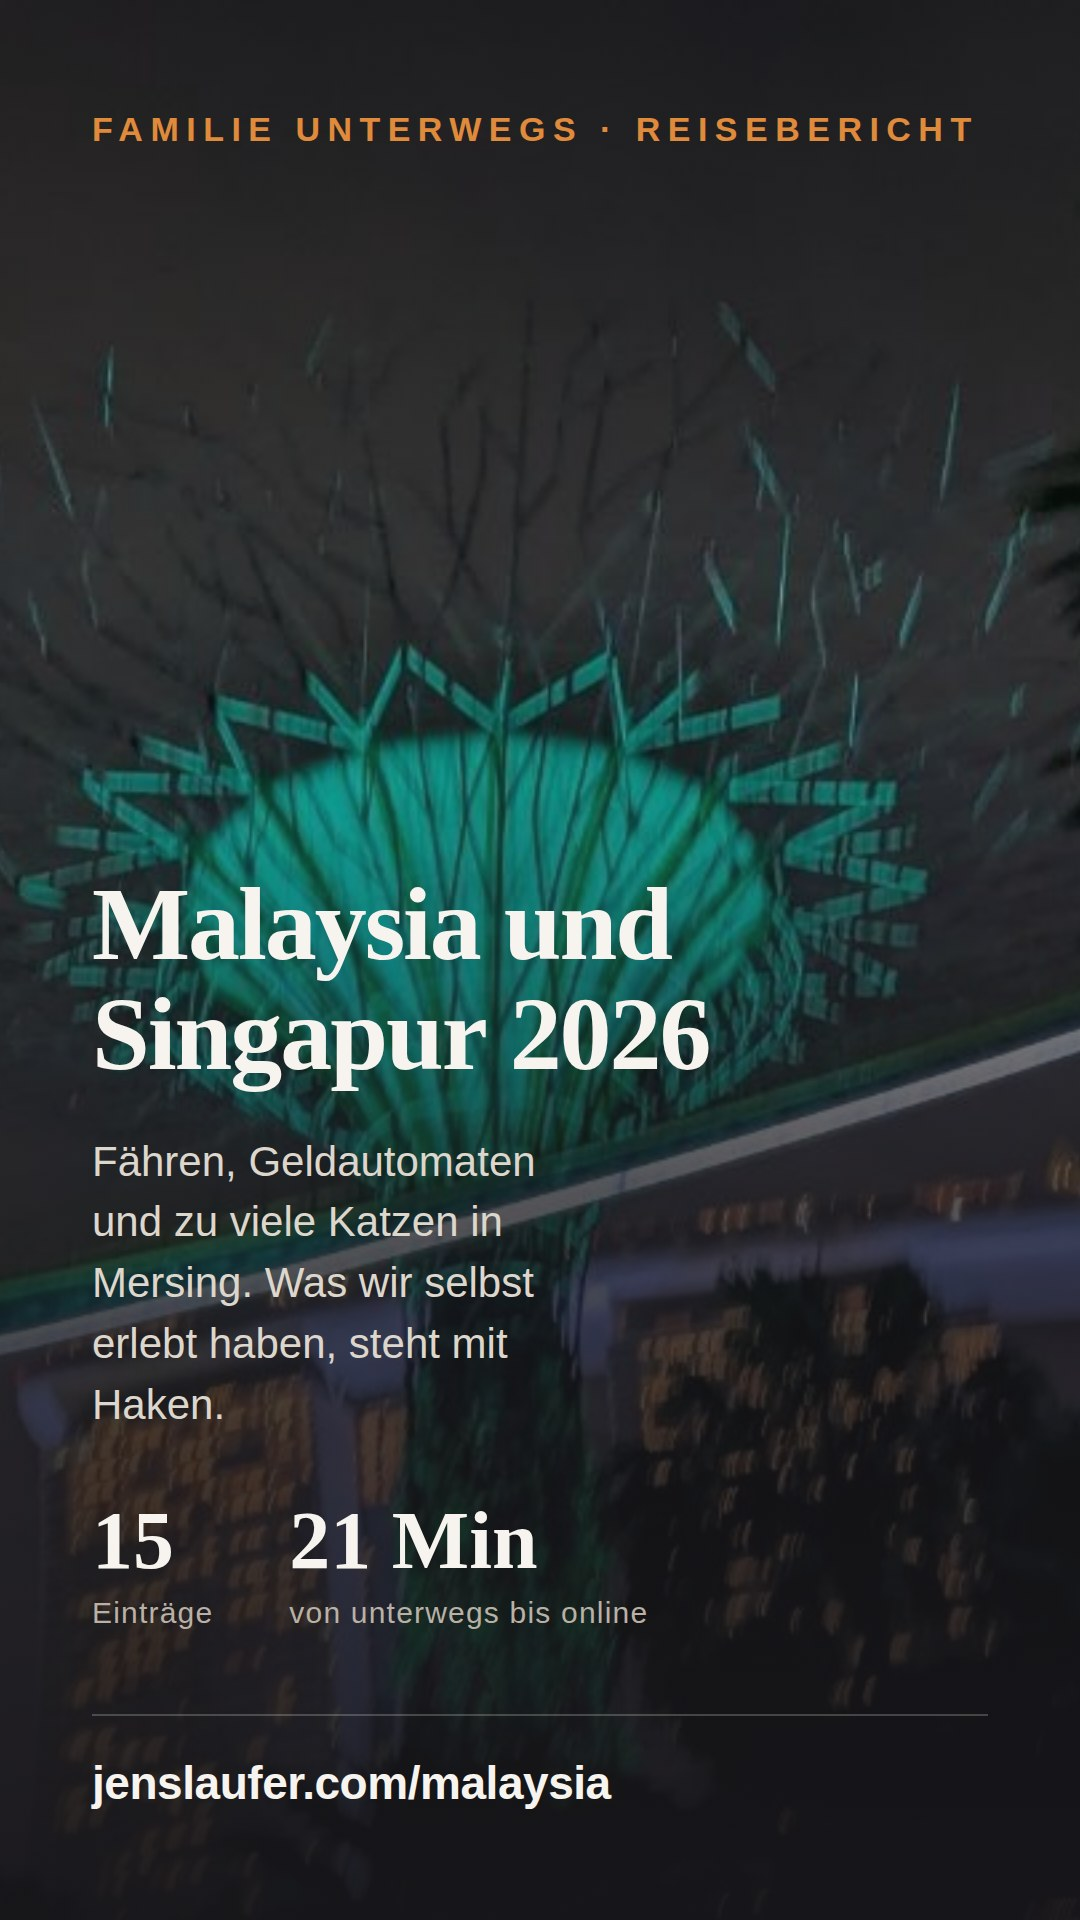
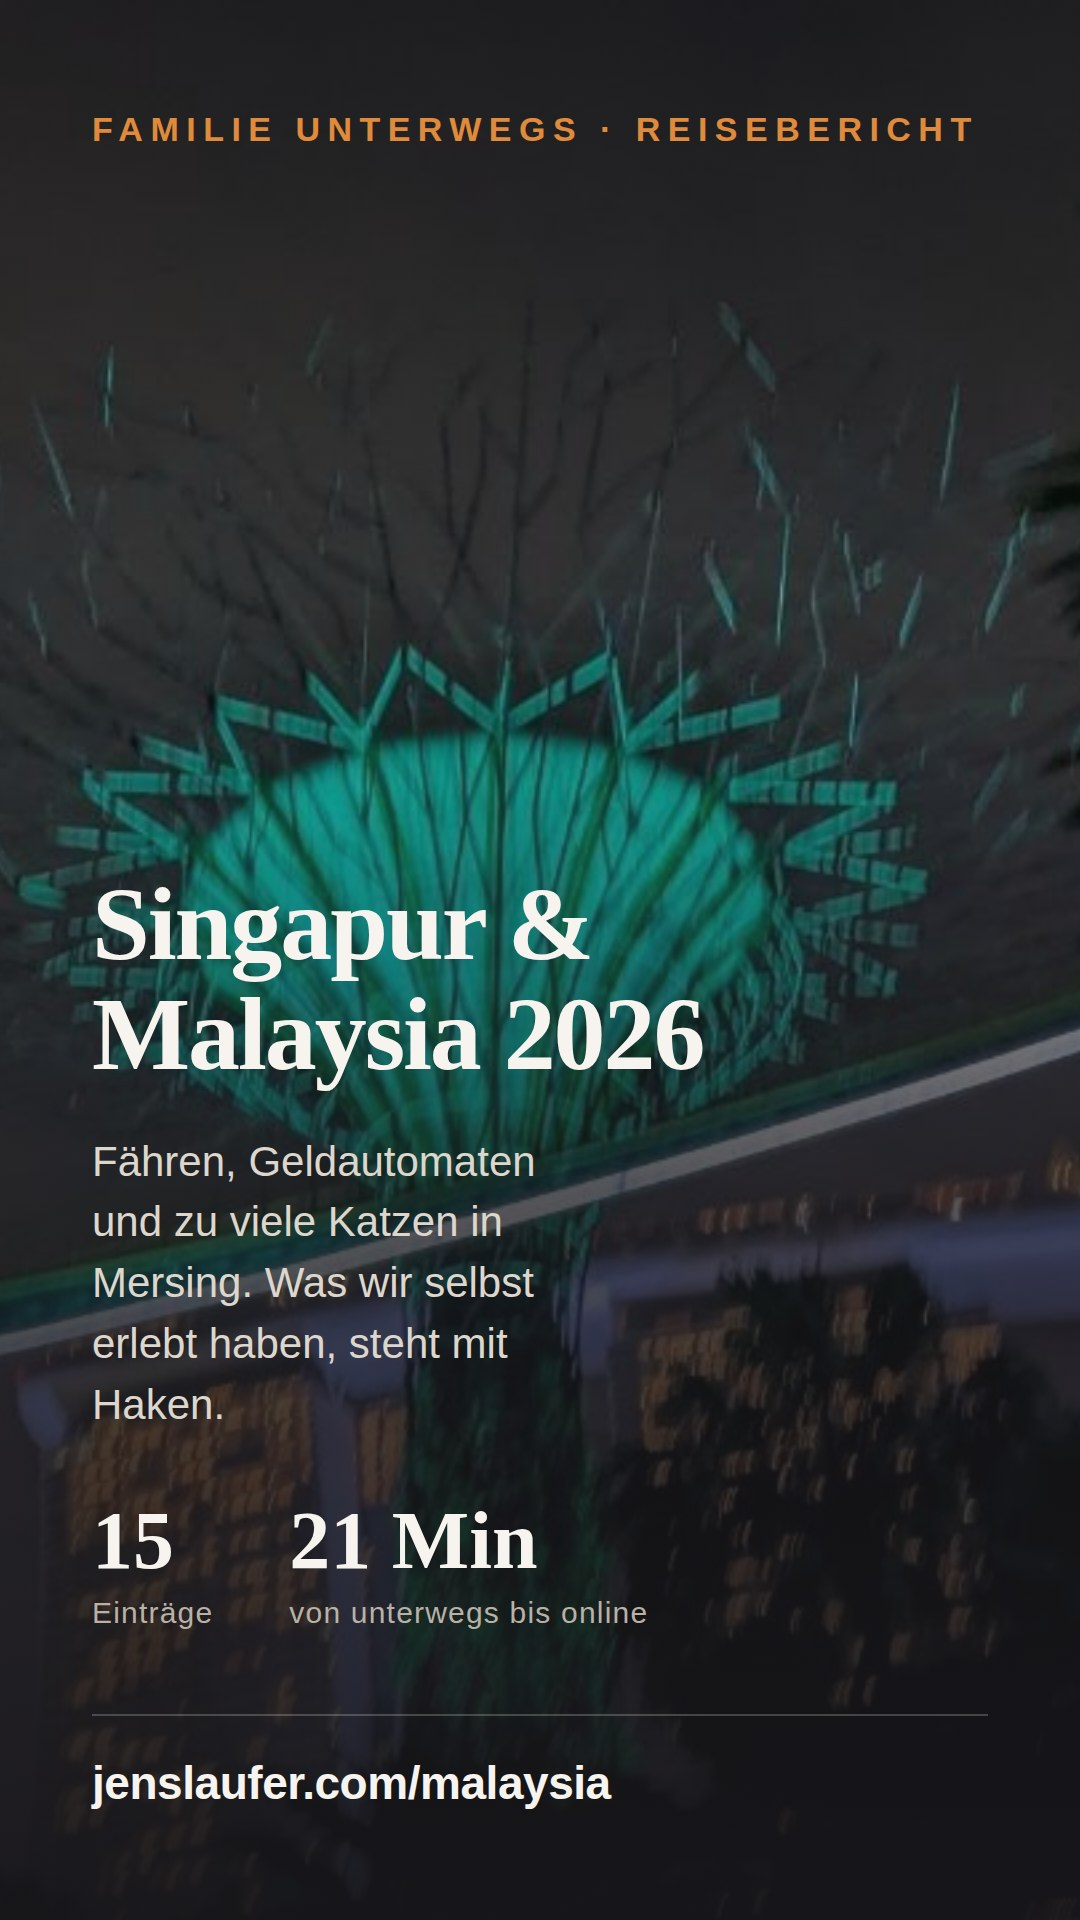
Statusbild-Titel: "Singapur & Malaysia 2026" statt "Malaysia und Singapur"
Jens 14:03, praeziser als sein 12:36-Wort: woertlich "Singapur & Malaysia 2026".

Changed region(s): [[0.0917, 0.4375, 0.6722, 0.5938]]

diff --git a/status-bild.py b/status-bild.py
@@ -84,7 +84,7 @@ def karte(foto: Path, anzahl: int, median: int) -> str:
 <div class="schleier"></div>
 <div class="inhalt">
   <div class="kicker">Familie unterwegs &middot; Reisebericht</div>
-  <h1 class="titel">Malaysia und Singapur&nbsp;2026</h1>
+  <h1 class="titel">Singapur &amp; Malaysia&nbsp;2026</h1>
   <p class="unter">Fähren, Geldautomaten und zu viele Katzen in Mersing. Was wir
      selbst erlebt haben, steht mit Haken.</p>
   <div class="zahlen">
